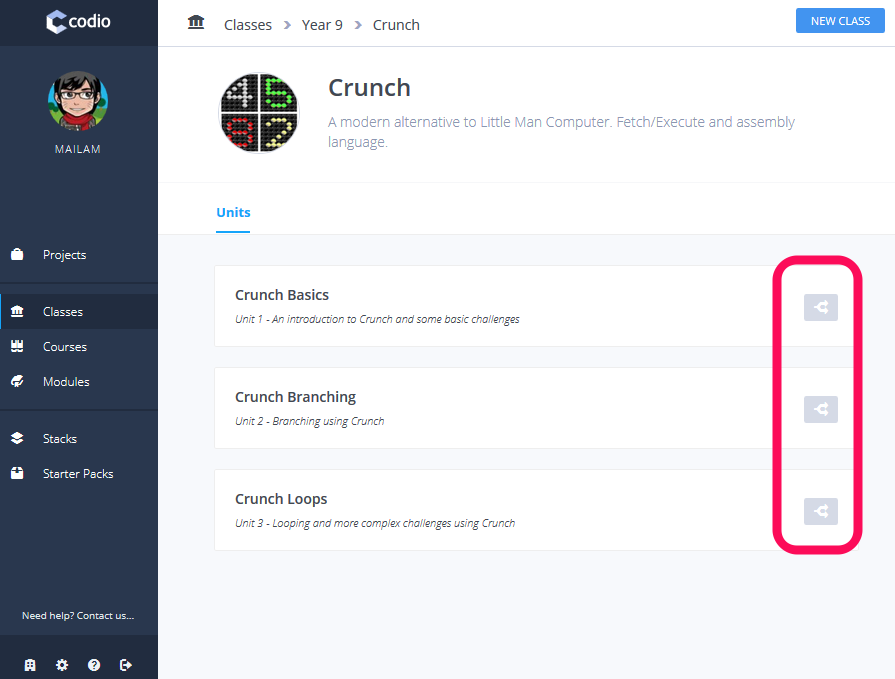
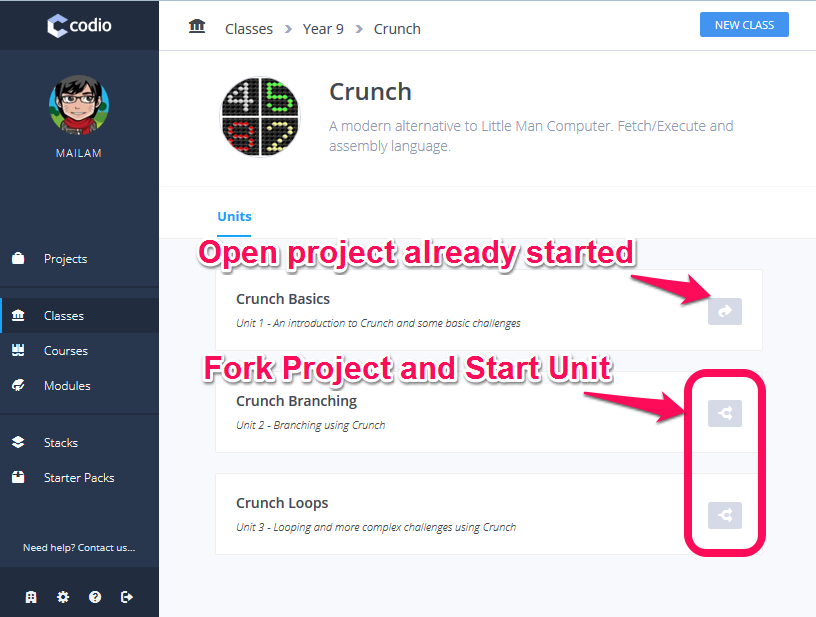
update classes screenshot

diff --git a/source/docs/student/classes.html.md b/source/docs/student/classes.html.md
@@ -19,7 +19,7 @@ Select a Module and you will see a list of all Units for the selected Module. Yo
 
 ![Class Start](/img/docs/class_start.png)
 
-When you click on the Start Unit icon (circled) the Unit will be started. This may take a few seconds. 
+When you click on the Start Unit icon (circled) the Unit will be forked into your account and started. This may take a few seconds. Any projects you have already started can be opened from the Units list as well
 
 ## Projects Listing
 If you click on the Projects link, you will see that your Unit can also be accessed from the Projects listing. Projects are listed in most recently used order, so you should see your recent work appear automatically at the top of the listing. Just click on the Project to start it up and carry on where you left off.
